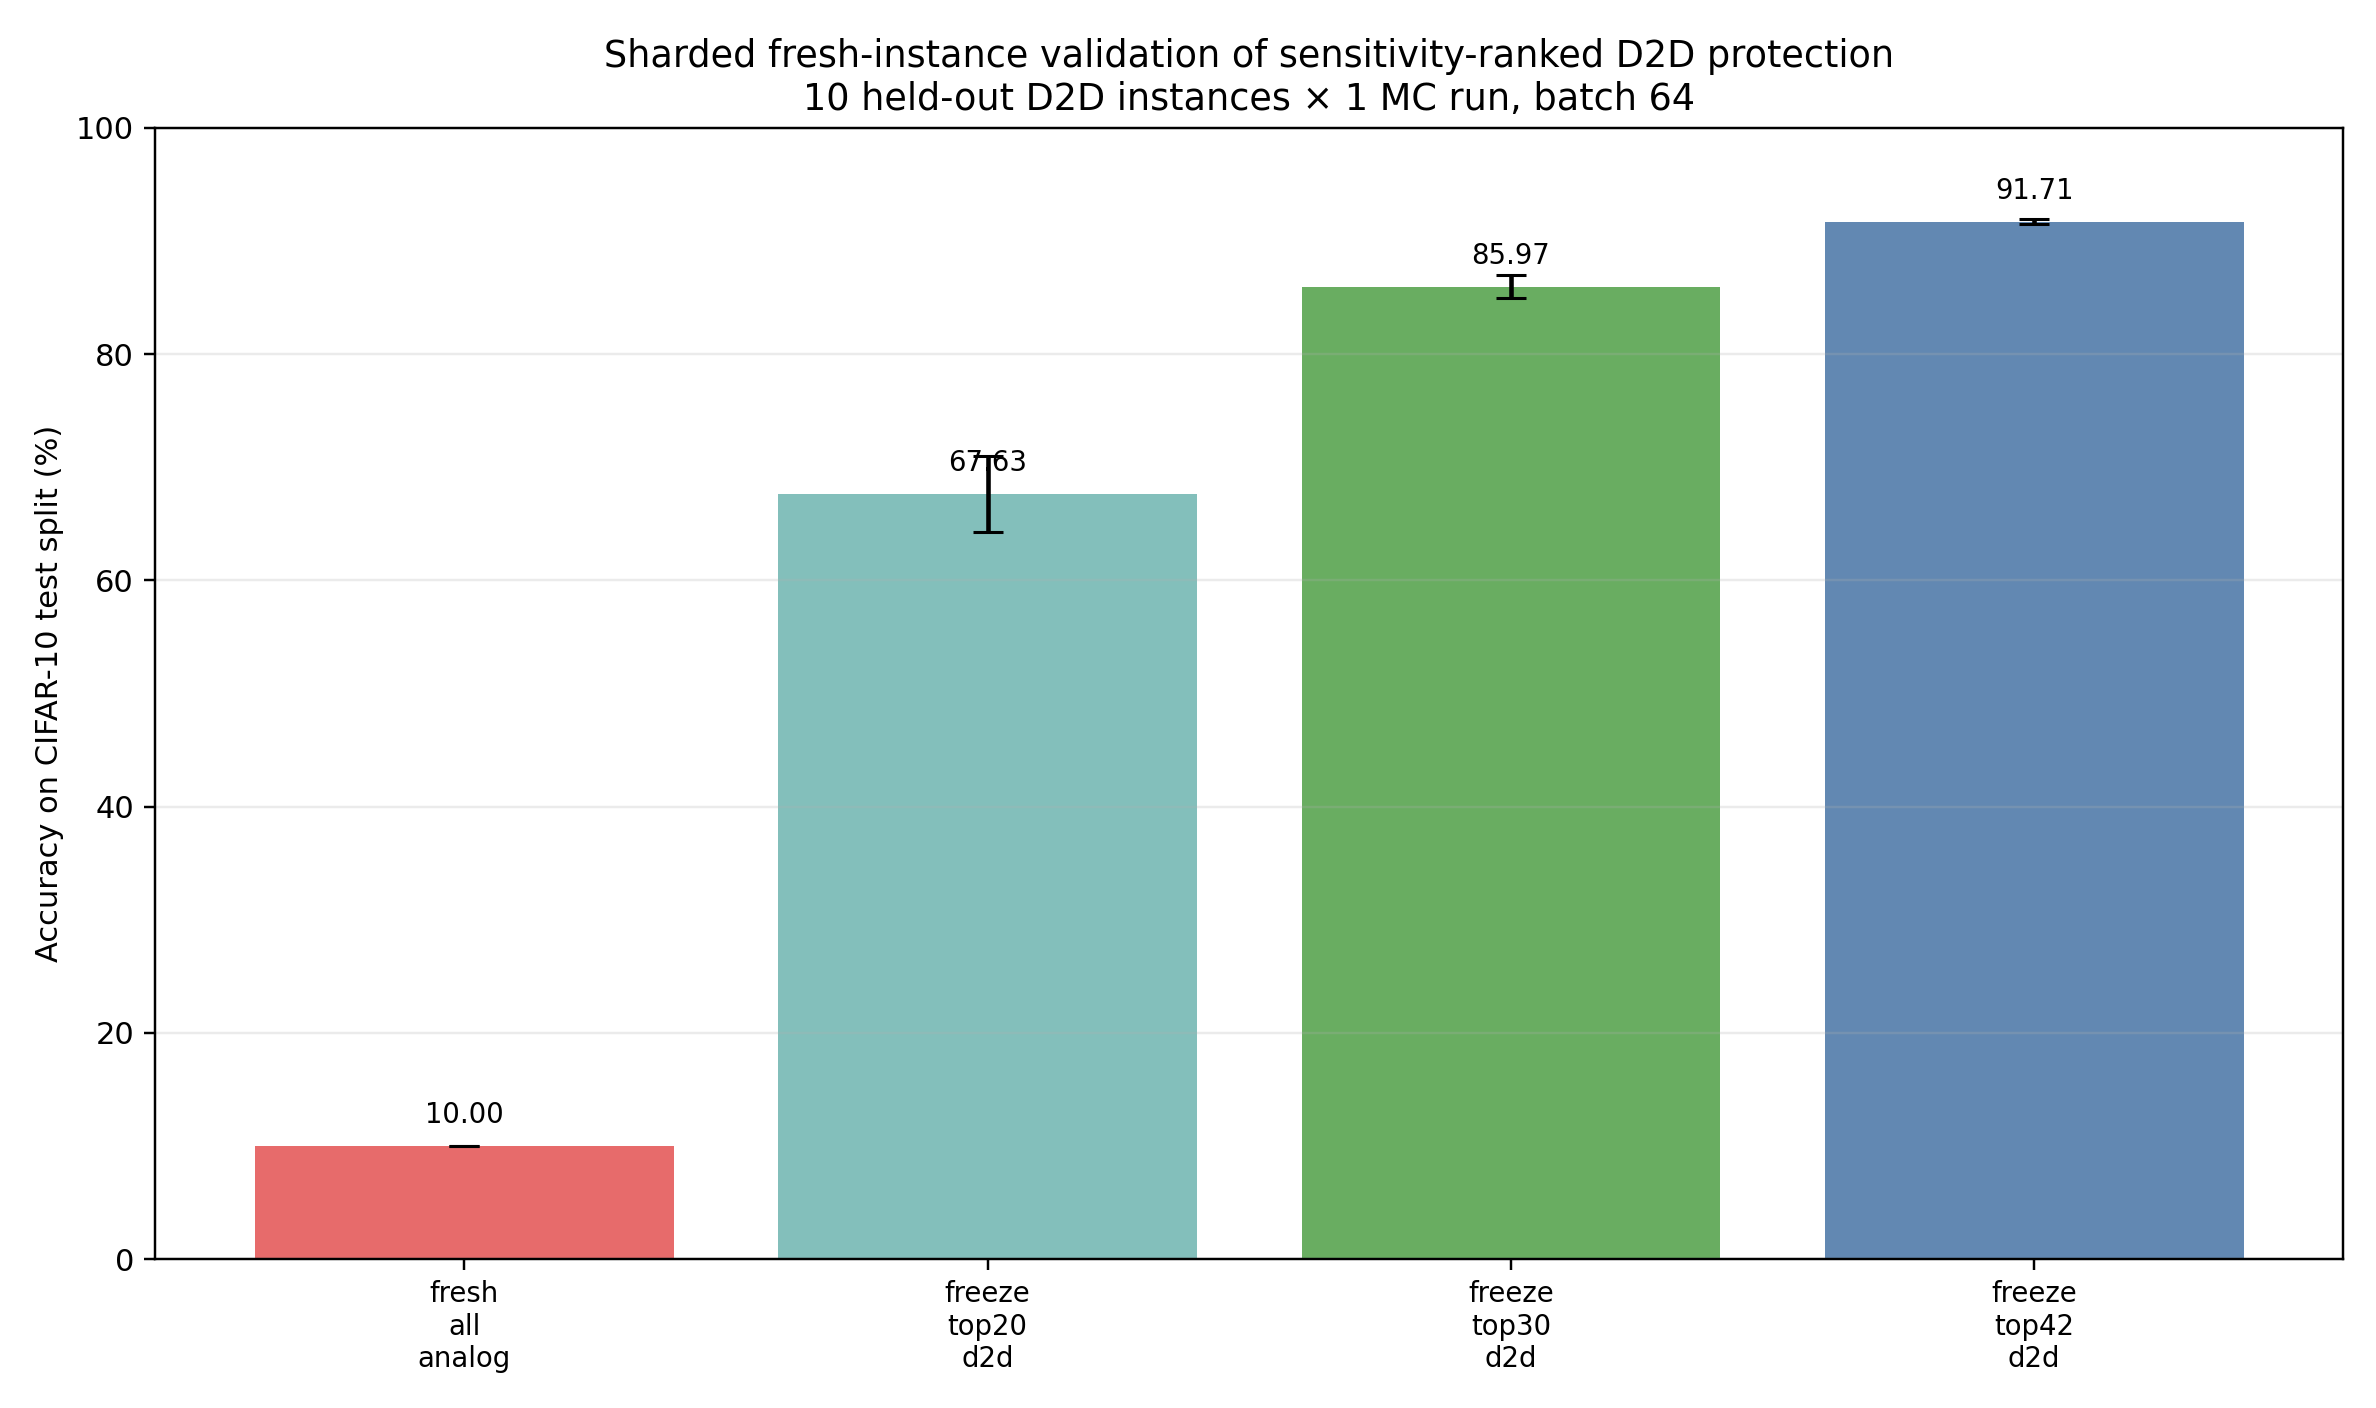
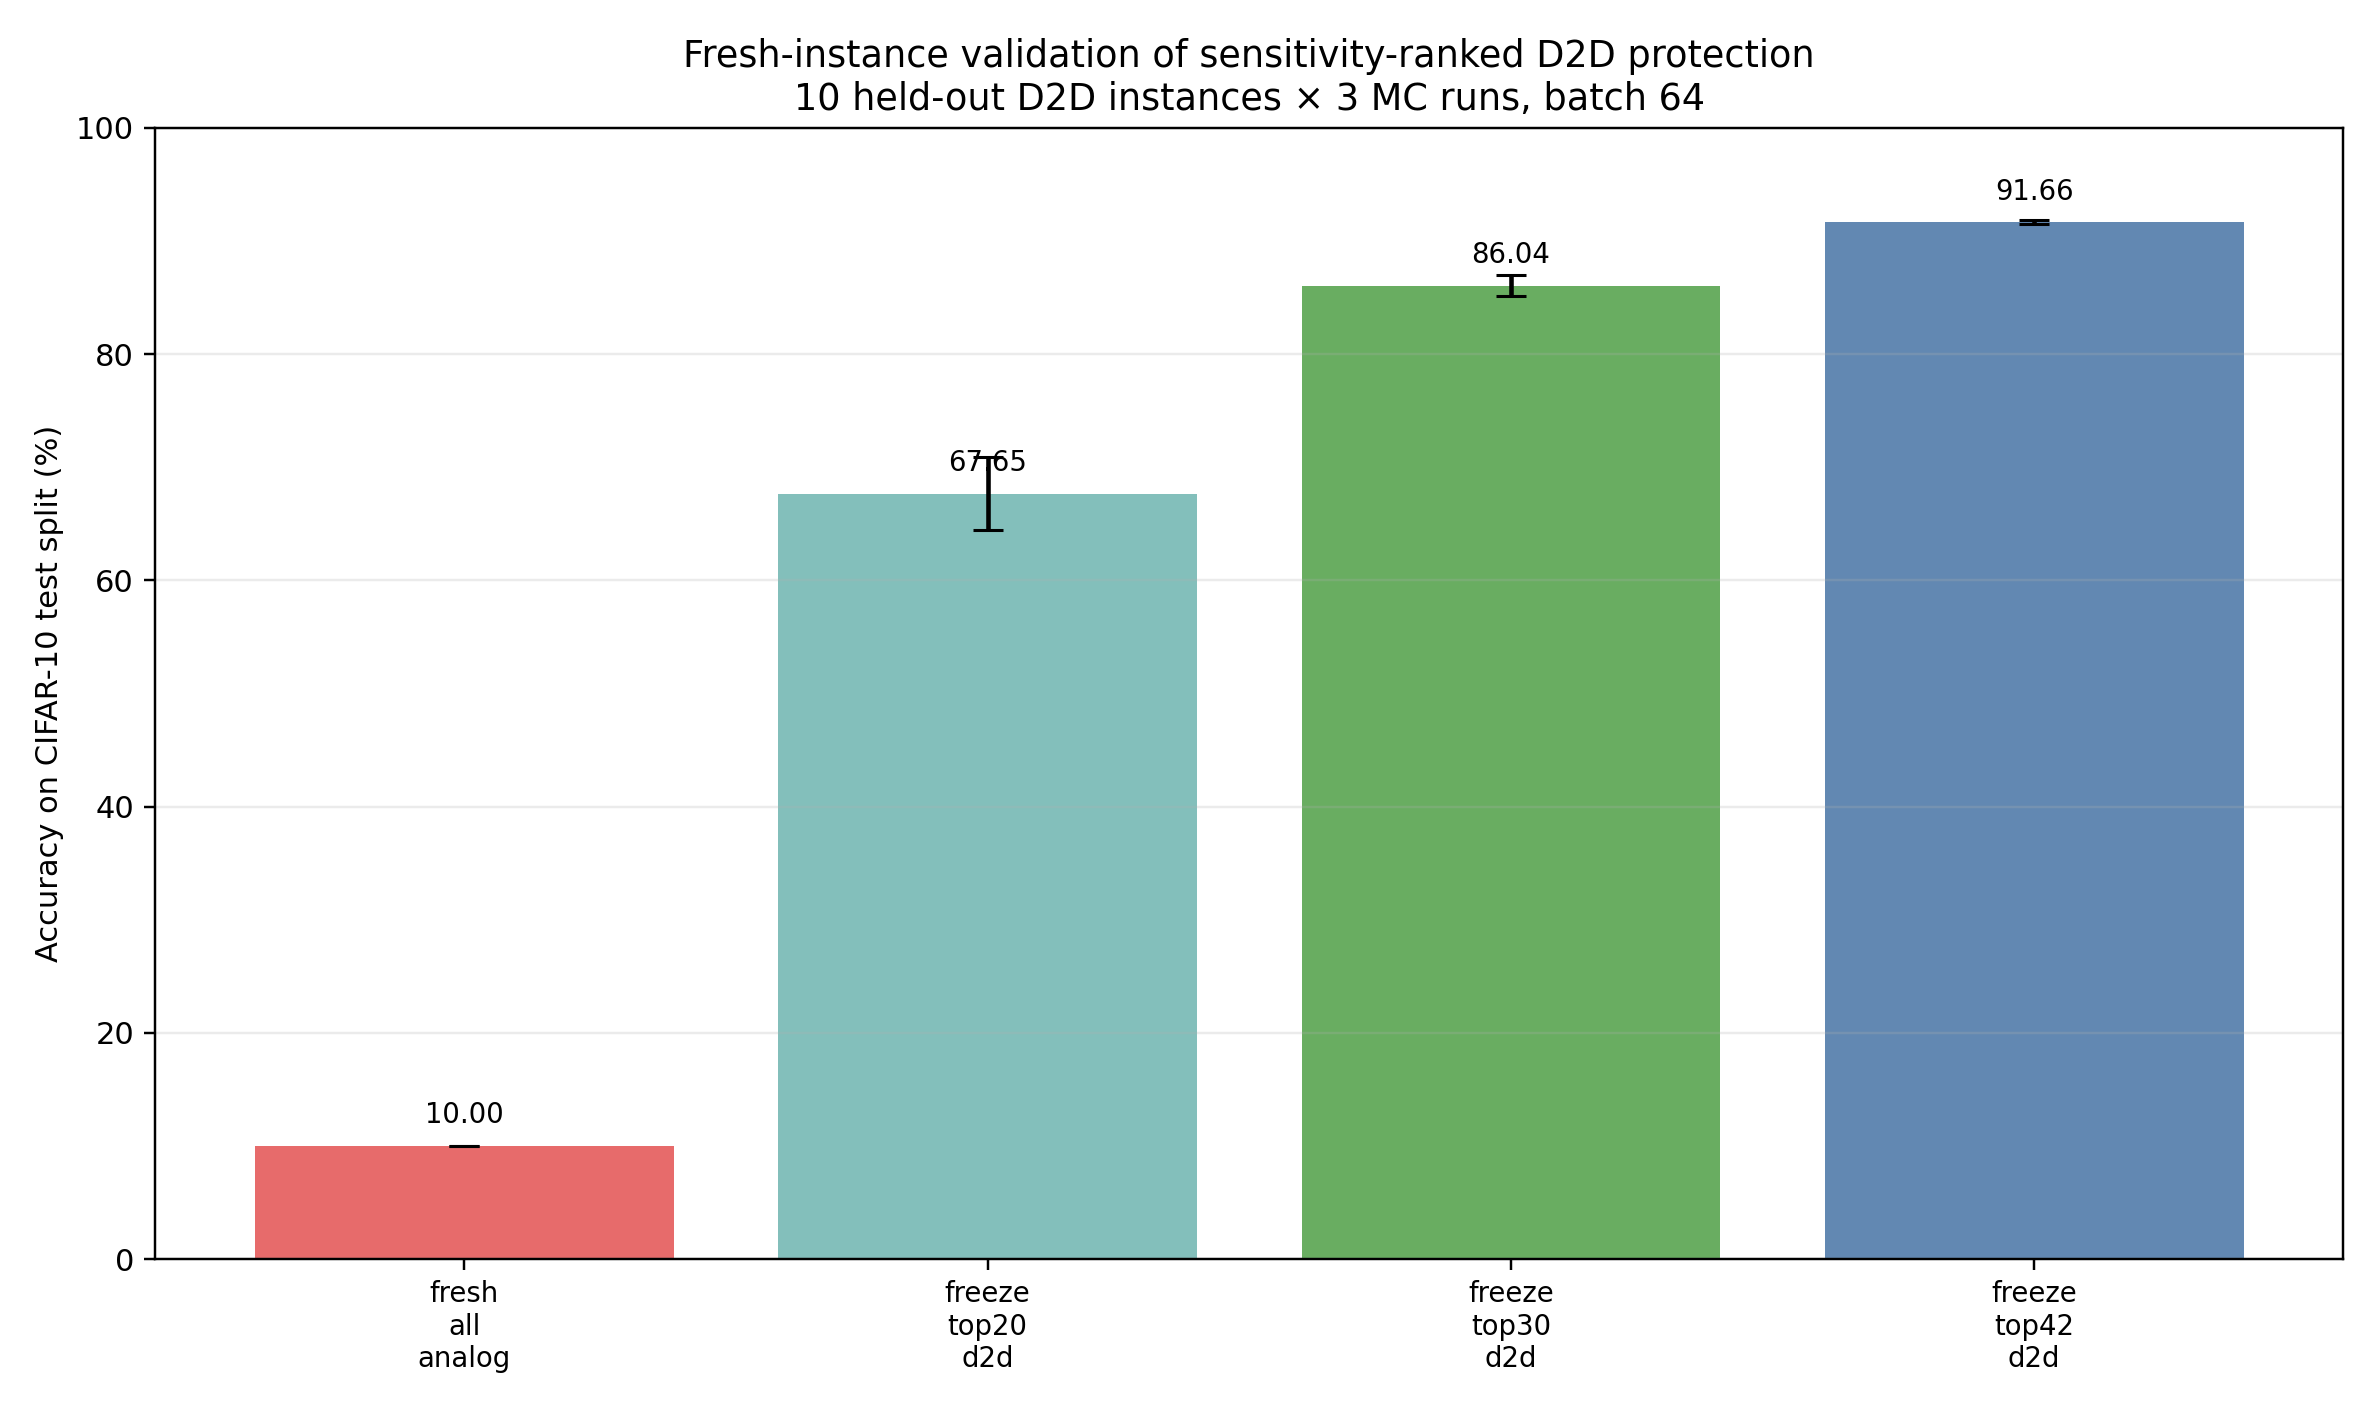
feat: integrate fresh-instance 10x3 evidence and polish thesis narrative
- Update chapter 7 (CN + XJTU) with 10x3 MC results: 67.65±3.21%, 86.04±0.95%, 91.66±0.19%
- Regenerate protection map figure and summary TSV with evidence_grade fresh-instance/full-test/sharded-n10-mc3
- Sync XJTU c4/c6/c7 with CN wording polish (remove provisional placeholders)
- Clean trailing whitespace in chapter_7_deployment.tex
- Update agent report for 10x3 protocol

Changed region(s): [[0.2492, 0.0312, 0.8098, 0.0938], [0.8409, 0.125, 0.8721, 0.1562], [0.6229, 0.1562, 0.654, 0.1875]]

diff --git a/thesis/cn/chapter_7_deployment.tex b/thesis/cn/chapter_7_deployment.tex
@@ -69,19 +69,19 @@
 但最终结论仍需由多个未见硬件实例上的 fresh-instance 协议确认。
 进一步的分片式 fresh-instance 复核采用同一 full42 排序，逐实例比较
 \texttt{fresh\_all\_analog}、\texttt{freeze\_top20\_d2d}、\texttt{freeze\_top30\_d2d} 与
-\texttt{freeze\_top42\_d2d}（完整测试集，$10$ 个未见 D2D 实例，每实例 $1$ 次 C2C 蒙特卡洛前向传播）。
-如图~\ref{fig:fresh-instance-protection-sharded} 所示，全新失配配置仍稳定在 $10.00\pm0.00\%$，
-保护前 $20$ 层恢复到 $67.63\pm3.32\%$，保护前 $30$ 层达到 $85.97\pm1.02\%$，
-而全 $42$ 层保留检查点 D2D 为 $91.71\pm0.22\%$。
+\texttt{freeze\_top42\_d2d}（完整测试集，$10$ 个未见 D2D 实例，每实例 $3$ 次 C2C 蒙特卡洛前向传播）。
+如图~\ref{fig:fresh-instance-protection-sharded} 所示，全新失配配置仍稳定在 $10.00\pm0.01\%$，
+保护前 $20$ 层恢复到 $67.65\pm3.21\%$，保护前 $30$ 层达到 $86.04\pm0.95\%$，
+而全 $42$ 层保留检查点 D2D 为 $91.66\pm0.19\%$。
 该结果说明完整测试集保护曲线并非少数 D2D 实例的偶然现象：top-$30$ 保护在 $10$ 个未见实例上保持稳定救援，
-但它仍是分片式 $10\times1$ 复核，尚未达到标准多次蒙特卡洛前向传播的最终部署协议。
+但它仍是推理期保护诊断，不等同于已经实现的混合精度硬件方案。
 从现有证据看，若外围或工艺预算允许优先保护约 $30/42$ 个高敏感层，
 则有望接近源域性能；若只保护前 $10$--$13$ 个极端高敏感层，则仍不足以解除固定掩膜模型的部署崩溃。
 
 \begin{figure}[t]
     \centering
     \includegraphics[width=0.95\textwidth]{../figures/mixed_precision/fig_fresh_instance_protection_maps_sharded_20260510}
-    \caption{基于 full42 排序的分片式 fresh-instance 保护复核。每个策略在完整 CIFAR-10 测试集上评估 $10$ 个未见 D2D 实例、每实例 $1$ 次 C2C 蒙特卡洛前向传播。top-$30$ 保护在多实例上达到 $85.97\pm1.02\%$，显著高于全新失配配置的 $10.00\pm0.00\%$，但该图仍不是最终多次蒙特卡洛前向传播的部署协议。}
+    \caption{基于 full42 排序的分片式 fresh-instance 保护复核。每个策略在完整 CIFAR-10 测试集上评估 $10$ 个未见 D2D 实例、每实例 $3$ 次 C2C 蒙特卡洛前向传播。top-$30$ 保护在多实例上达到 $86.04\pm0.95\%$，显著高于全新失配配置的 $10.00\pm0.01\%$，但该图仍表示推理期保护诊断，而非已实现的混合精度硬件方案。}
     \label{fig:fresh-instance-protection-sharded}
 \end{figure}
 
@@ -430,22 +430,22 @@ canonical $10\%$ D2D 给出 $86.16\pm0.19\%$，均处于原型级可行区间。
     \item \textbf{ADC $\ge$ 6 bit（绝对非协商）}。
     低于 5 bit 时所有训练协议均失效。
     从 5 bit 提升至 6 bit 是投资回报率最高的单点干预。
-    
+
     \item \textbf{写入线性度 $NL < 1.5$（可协商，影响均值）}。
     $NL=2.0$ 时 fresh-instance 精度约 $80$--$82\%$（修订配方），
     低于 $NL=1.0$ 基线约 $5.7$~pp，但仍处于可用区间。
     若工艺无法将 $NL$ 压至 $1.5$ 以下，可通过设备线性化或高阶梯度修正进一步缩小差距。
-    
+
     \item \textbf{训练协议 = Ensemble HAT（强非协商）}。
     标准 HAT 在所有测试条件下均 deterministic 崩塌至 $10\%$，
     无例外。固定掩膜训练不可用于任何要求跨实例鲁棒性的场景。
-    
+
     \item \textbf{D2D 均匀性（可协商，影响均值与方差）}。
     在 ADC $\ge$ 6 bit 且 $NL=1.0$ 时，
     D2D 从 $3\%$ 恶化至 $20\%$ 仅使 Ensemble HAT 均值从 $88.5\%$ 降至 $74.5\%$，
     不会导致崩塌。空间相关性 $\rho$ 增大主要加宽方差（$0.19$~pp $\to$ $3.95$~pp），
     可经由良率规划吸收。
-    
+
     \item \textbf{C2C 重复性（弱可协商）}。
     在操作区内，C2C 被数字恢复路径大量屏蔽；
     $5\%$ C2C 的有效误差常低于半 LSB。
@@ -459,18 +459,18 @@ canonical $10\%$ D2D 给出 $86.16\pm0.19\%$，均处于原型级可行区间。
     在中试线上测量 D2D 空间协方差核；
     若 $\rho > 0.4$，需引入空间校准网格或 correlated-HAT 训练，
     否则最坏实例可能跌破 $75\%$。
-    
+
     \item \textbf{NRE 节省}：
     Ensemble HAT 免除逐器件重新训练。
     按单卡单轮 $100$ epoch、每 epoch $\sim$$2$~小时估算，
     $100$ 片测试阵列可节省约 $20{,}000$ GPU--时，
     对应 $2025$ 年云算力成本约 $5$--$10$~k 美元。
-    
+
     \item \textbf{刷新频率协商}：
     在定案阵列规模前，与应用团队确认精度阈值与刷新间隔的联合规格。
     外围参考单元读出能耗随模拟层数线性增长，
     需在 $11.45\times$ 能效增益估算中扣除 $5$--$15\%$ 的外围开销。
-    
+
     \item \textbf{化合物应力冒烟测试}：
     单一组合应力测试（$2\%$ C2C + $3\%$ D2D + 6-bit ADC + $1\%$ IR 压降 + $1\%$  sneak path + $1{,}000$~s 保留）
     给出 $89.61\%$ 的单次运行精度。

diff --git a/thesis/xjtu_submission/Main_Spine/c7.tex b/thesis/xjtu_submission/Main_Spine/c7.tex
@@ -69,19 +69,19 @@
 但最终结论仍需由多个未见硬件实例上的 fresh-instance 协议确认。
 进一步的分片式 fresh-instance 复核采用同一 full42 排序，逐实例比较
 \texttt{fresh\_all\_analog}、\texttt{freeze\_top20\_d2d}、\texttt{freeze\_top30\_d2d} 与
-\texttt{freeze\_top42\_d2d}（完整测试集，$10$ 个未见 D2D 实例，每实例 $1$ 次 C2C 蒙特卡洛前向传播）。
-如图~\ref{fig:fresh-instance-protection-sharded} 所示，全新失配配置仍稳定在 $10.00\pm0.00\%$，
-保护前 $20$ 层恢复到 $67.63\pm3.32\%$，保护前 $30$ 层达到 $85.97\pm1.02\%$，
-而全 $42$ 层保留检查点 D2D 为 $91.71\pm0.22\%$。
+\texttt{freeze\_top42\_d2d}（完整测试集，$10$ 个未见 D2D 实例，每实例 $3$ 次 C2C 蒙特卡洛前向传播）。
+如图~\ref{fig:fresh-instance-protection-sharded} 所示，全新失配配置仍稳定在 $10.00\pm0.01\%$，
+保护前 $20$ 层恢复到 $67.65\pm3.21\%$，保护前 $30$ 层达到 $86.04\pm0.95\%$，
+而全 $42$ 层保留检查点 D2D 为 $91.66\pm0.19\%$。
 该结果说明完整测试集保护曲线并非少数 D2D 实例的偶然现象：top-$30$ 保护在 $10$ 个未见实例上保持稳定救援，
-但它仍是分片式 $10\times1$ 复核，尚未达到标准多次蒙特卡洛前向传播的最终部署协议。
+但它仍是推理期保护诊断，不等同于已经实现的混合精度硬件方案。
 从现有证据看，若外围或工艺预算允许优先保护约 $30/42$ 个高敏感层，
 则有望接近源域性能；若只保护前 $10$--$13$ 个极端高敏感层，则仍不足以解除固定掩膜模型的部署崩溃。
 
 \begin{figure}[t]
     \centering
     \includegraphics[width=0.95\textwidth]{fig_fresh_instance_protection_maps_sharded_20260510}
-    \caption{基于 full42 排序的分片式 fresh-instance 保护复核。每个策略在完整 CIFAR-10 测试集上评估 $10$ 个未见 D2D 实例、每实例 $1$ 次 C2C 蒙特卡洛前向传播。top-$30$ 保护在多实例上达到 $85.97\pm1.02\%$，显著高于全新失配配置的 $10.00\pm0.00\%$，但该图仍不是最终多次蒙特卡洛前向传播的部署协议。}
+    \caption{基于 full42 排序的分片式 fresh-instance 保护复核。每个策略在完整 CIFAR-10 测试集上评估 $10$ 个未见 D2D 实例、每实例 $3$ 次 C2C 蒙特卡洛前向传播。top-$30$ 保护在多实例上达到 $86.04\pm0.95\%$，显著高于全新失配配置的 $10.00\pm0.01\%$，但该图仍表示推理期保护诊断，而非已实现的混合精度硬件方案。}
     \label{fig:fresh-instance-protection-sharded}
 \end{figure}
 

diff --git a/thesis/cn/chapter_6_work2_scope.tex b/thesis/cn/chapter_6_work2_scope.tex
@@ -1,7 +1,7 @@
 % Chapter 6: Work 2 Scope — LLM KV-Cache on Organic Optoelectronic CIM
 % Full draft v3. Expanded from 88-line stub to ~15-page chapter draft.
 % Direction: C (KV-Cache) per CLAUDE_WORK2_DIRECTION_LOCK_20260423.md
-% Number-agnostic; placeholders marked [TBD].
+% 第六章 Work 2 范围与KV缓存评估
 
 \chapter{大语言模型KV缓存的有机光电存内计算映射}
 \label{ch:work2_scope}
@@ -480,7 +480,7 @@ last1（layer~23） & 真实噪声 & 16.72 & 1.066x \\
 \end{tabular}
 \end{table}
 
-全层配置的噪声扫描进一步说明了这一差异的物理来源。对6-bit全层配置分别扫描C2C和D2D噪声后可以看到，D2D噪声的破坏力远大于C2C噪声：D2D从0增至0.05时，PPL从32.41跃升至412.35；D2D=0.1时更是达到7635.49。这提示D2D可能是模拟KV缓存的首要失效源，与Work~1中D2D导致ViT分类精度崩溃的发现一致；正式结论仍需在元数据补全后锁定。
+全层配置的噪声扫描进一步说明了这一差异的物理来源。对6-bit全层配置分别扫描C2C和D2D噪声后可以看到，D2D噪声的破坏力远大于C2C噪声：D2D从0增至0.05时，PPL从32.41跃升至412.35；D2D=0.1时更是达到7635.49。这提示D2D可能是模拟KV缓存的首要失效源，与Work~1中D2D导致ViT分类精度崩溃的发现一致；在完整元数据核对和最小复现实验完成前，本节将该判断定位为阶段性证据。
 
 \begin{table}[htbp]
 \centering
@@ -529,7 +529,7 @@ last2 [22,23] & 0.05 & 5 & 19.21 & 0.04 & 19.17 & 19.26 \\
     \item \textbf{last1是当前优先候选路线}：从eval D2D=0.02到0.05，PPL仅从18.42微增至18.60，变化量不足1\%，提示其对D2D变异具有较低敏感性。
     \item \textbf{last2同样呈现低敏感性但一致性劣于last1}：PPL从18.71增至19.21，增量约2.7\%，仍在可接受范围，但为次优候选。
     \item \textbf{全层路线在fresh-D2D下表现为不可取候选}：即使eval D2D=0.02，PPL已达26.05$\pm$0.53；eval D2D=0.05时，PPL达66.84$\pm$5.91，变异系数接近9\%，不具备部署可行性。
-    \item \textbf{Fresh-D2D方差极小}：last1和last2的标准差均低于0.05，变异系数$<0.3\%$，提示其可能具备跨设备鲁棒性；该判断仍需在元数据锁定和最小重跑后再作为正式 claim。
+    \item \textbf{Fresh-D2D方差极小}：last1和last2的标准差均低于0.05，变异系数$<0.3\%$，提示其可能具备跨设备鲁棒性；该判断仍需在元数据核对和最小复现实验后再提升为正式结论。
 \end{enumerate}
 
 基于上述实验结果，当前Work-2的研究路线如下：
@@ -596,7 +596,7 @@ KV缓存的片上训练 & 训练过程需要高频原地更新K/V张量，超出
 
 本章系统界定了硕士论文第二个核心工作（Work 2）的研究范围：以有机光电模拟存内计算（CIM）作为大语言模型KV缓存的存储与计算层，面向1–3B边缘LLM推理场景，通过行为级仿真评估有机CIM在物理特性上与KV缓存访问模式的结构性匹配。
 
-本章的核心论点可概括为三个层次：\textbf{物理匹配}——有机OEC-RAM的$\sim$$10^3$ s保持时间和$10^3$–$10^4$次耐久性落入KV缓存WORM访问模式的"最优区间"；\textbf{机制优势}——光学刷新将Work 1中识别的"光敏噪声源"转化为低能耗、无耐久代价的数据维持机制；\textbf{系统评估}——Remote 107阶段性实验提示：全层模拟KV缓存即使在8-bit零噪声下亦超出10\%困惑度退化门限（17.48 vs 15.68），而选择性终端层（last1）在fresh-D2D交叉实例验证中表现稳定（eval D2D=0.02–0.05时PPL=18.42–18.60，变异系数$<0.3\%$），可作为有机CIM KV缓存的候选路线；该路线仍需通过manifest补全与最小重跑后锁定。
+本章的核心论点可概括为三个层次：\textbf{物理匹配}——有机OEC-RAM的$\sim$$10^3$ s保持时间和$10^3$–$10^4$次耐久性落入KV缓存WORM访问模式的"最优区间"；\textbf{机制优势}——光学刷新将Work 1中识别的"光敏噪声源"转化为低能耗、无耐久代价的数据维持机制；\textbf{系统评估}——Remote 107阶段性实验提示：全层模拟KV缓存即使在8-bit零噪声下亦超出10\%困惑度退化门限（17.48 vs 15.68），而选择性终端层（last1）在fresh-D2D交叉实例验证中表现稳定（eval D2D=0.02–0.05时PPL=18.42–18.60，变异系数$<0.3\%$），可作为有机CIM KV缓存的候选路线；该路线仍需通过元数据核对与最小复现实验后锁定。
 
 在方法论上，本工作沿用并扩展了Work 1建立的行为级模拟器框架，确保跨工作的一致性；在论证结构上，Work 2与Work 1形成互补——前者分析有机CIM在动态推理中的局限，后者论证其在静态存储中的优势，共同构建起"有机CIM适用性评估"的完整图景。
 

diff --git a/thesis/xjtu_submission/Main_Spine/c6.tex b/thesis/xjtu_submission/Main_Spine/c6.tex
@@ -1,7 +1,7 @@
 % Chapter 6: Work 2 Scope — LLM KV-Cache on Organic Optoelectronic CIM
 % Full draft v3. Expanded from 88-line stub to ~15-page chapter draft.
 % Direction: C (KV-Cache) per CLAUDE_WORK2_DIRECTION_LOCK_20260423.md
-% Number-agnostic; placeholders marked [TBD].
+% 第六章 Work 2 范围与KV缓存评估
 
 \chapter{大语言模型KV缓存的有机光电存内计算映射}
 \label{ch:work2_scope}
@@ -480,7 +480,7 @@ last1（layer~23） & 真实噪声 & 16.72 & 1.066x \\
 \end{tabular}
 \end{table}
 
-全层配置的噪声扫描进一步说明了这一差异的物理来源。对6-bit全层配置分别扫描C2C和D2D噪声后可以看到，D2D噪声的破坏力远大于C2C噪声：D2D从0增至0.05时，PPL从32.41跃升至412.35；D2D=0.1时更是达到7635.49。这提示D2D可能是模拟KV缓存的首要失效源，与Work~1中D2D导致ViT分类精度崩溃的发现一致；正式结论仍需在元数据补全后锁定。
+全层配置的噪声扫描进一步说明了这一差异的物理来源。对6-bit全层配置分别扫描C2C和D2D噪声后可以看到，D2D噪声的破坏力远大于C2C噪声：D2D从0增至0.05时，PPL从32.41跃升至412.35；D2D=0.1时更是达到7635.49。这提示D2D可能是模拟KV缓存的首要失效源，与Work~1中D2D导致ViT分类精度崩溃的发现一致；在完整元数据核对和最小复现实验完成前，本节将该判断定位为阶段性证据。
 
 \begin{table}[htbp]
 \centering
@@ -529,7 +529,7 @@ last2 [22,23] & 0.05 & 5 & 19.21 & 0.04 & 19.17 & 19.26 \\
     \item \textbf{last1是当前优先候选路线}：从eval D2D=0.02到0.05，PPL仅从18.42微增至18.60，变化量不足1\%，提示其对D2D变异具有较低敏感性。
     \item \textbf{last2同样呈现低敏感性但一致性劣于last1}：PPL从18.71增至19.21，增量约2.7\%，仍在可接受范围，但为次优候选。
     \item \textbf{全层路线在fresh-D2D下表现为不可取候选}：即使eval D2D=0.02，PPL已达26.05$\pm$0.53；eval D2D=0.05时，PPL达66.84$\pm$5.91，变异系数接近9\%，不具备部署可行性。
-    \item \textbf{Fresh-D2D方差极小}：last1和last2的标准差均低于0.05，变异系数$<0.3\%$，提示其可能具备跨设备鲁棒性；该判断仍需在元数据锁定和最小重跑后再作为正式 claim。
+    \item \textbf{Fresh-D2D方差极小}：last1和last2的标准差均低于0.05，变异系数$<0.3\%$，提示其可能具备跨设备鲁棒性；该判断仍需在元数据核对和最小复现实验后再提升为正式结论。
 \end{enumerate}
 
 基于上述实验结果，当前Work-2的研究路线如下：
@@ -596,7 +596,7 @@ KV缓存的片上训练 & 训练过程需要高频原地更新K/V张量，超出
 
 本章系统界定了硕士论文第二个核心工作（Work 2）的研究范围：以有机光电模拟存内计算（CIM）作为大语言模型KV缓存的存储与计算层，面向1–3B边缘LLM推理场景，通过行为级仿真评估有机CIM在物理特性上与KV缓存访问模式的结构性匹配。
 
-本章的核心论点可概括为三个层次：\textbf{物理匹配}——有机OEC-RAM的$\sim$$10^3$ s保持时间和$10^3$–$10^4$次耐久性落入KV缓存WORM访问模式的"最优区间"；\textbf{机制优势}——光学刷新将Work 1中识别的"光敏噪声源"转化为低能耗、无耐久代价的数据维持机制；\textbf{系统评估}——Remote 107阶段性实验提示：全层模拟KV缓存即使在8-bit零噪声下亦超出10\%困惑度退化门限（17.48 vs 15.68），而选择性终端层（last1）在fresh-D2D交叉实例验证中表现稳定（eval D2D=0.02–0.05时PPL=18.42–18.60，变异系数$<0.3\%$），可作为有机CIM KV缓存的候选路线；该路线仍需通过manifest补全与最小重跑后锁定。
+本章的核心论点可概括为三个层次：\textbf{物理匹配}——有机OEC-RAM的$\sim$$10^3$ s保持时间和$10^3$–$10^4$次耐久性落入KV缓存WORM访问模式的"最优区间"；\textbf{机制优势}——光学刷新将Work 1中识别的"光敏噪声源"转化为低能耗、无耐久代价的数据维持机制；\textbf{系统评估}——Remote 107阶段性实验提示：全层模拟KV缓存即使在8-bit零噪声下亦超出10\%困惑度退化门限（17.48 vs 15.68），而选择性终端层（last1）在fresh-D2D交叉实例验证中表现稳定（eval D2D=0.02–0.05时PPL=18.42–18.60，变异系数$<0.3\%$），可作为有机CIM KV缓存的候选路线；该路线仍需通过元数据核对与最小复现实验后锁定。
 
 在方法论上，本工作沿用并扩展了Work 1建立的行为级模拟器框架，确保跨工作的一致性；在论证结构上，Work 2与Work 1形成互补——前者分析有机CIM在动态推理中的局限，后者论证其在静态存储中的优势，共同构建起"有机CIM适用性评估"的完整图景。
 

diff --git a/thesis/cn/chapter_4_benchmarks.tex b/thesis/cn/chapter_4_benchmarks.tex
@@ -207,8 +207,8 @@ ImageNet-1k 的评估结果来自 \texttt{imagenet\_eval\_results\_gpt.json}，
 经核查，\texttt{imagenet\_eval\_results\_gpt.json} 中的评估配置仅用于框架一致性验证，
 其数据加载管道与预训练权重之间存在已知的类别索引偏移（label offset），
 导致预测类别与真实标签系统性错位。
-该 JSON 因此不代表模型真实的 ImageNet-1k 能力，而仅作为当前仿真体制下的\emph{占位评估}（placeholder evaluation）。
-完整的 ImageNet-1k 基准留待未来修复数据加载管道后重新运行。
+该 JSON 因此不代表模型真实的 ImageNet-1k 能力，而仅用于当前仿真体制的数据通路一致性检查。
+完整的 ImageNet-1k 基准需在修复数据加载管道后重新运行。
 
 \section{Fresh-Instance 评估}
 

diff --git a/thesis/xjtu_submission/Main_Spine/c4.tex b/thesis/xjtu_submission/Main_Spine/c4.tex
@@ -207,8 +207,8 @@ ImageNet-1k 的评估结果来自 \texttt{imagenet\_eval\_results\_gpt.json}，
 经核查，\texttt{imagenet\_eval\_results\_gpt.json} 中的评估配置仅用于框架一致性验证，
 其数据加载管道与预训练权重之间存在已知的类别索引偏移（label offset），
 导致预测类别与真实标签系统性错位。
-该 JSON 因此不代表模型真实的 ImageNet-1k 能力，而仅作为当前仿真体制下的\emph{占位评估}（placeholder evaluation）。
-完整的 ImageNet-1k 基准留待未来修复数据加载管道后重新运行。
+该 JSON 因此不代表模型真实的 ImageNet-1k 能力，而仅用于当前仿真体制的数据通路一致性检查。
+完整的 ImageNet-1k 基准需在修复数据加载管道后重新运行。
 
 \section{Fresh-Instance 评估}
 

diff --git a/coordination/agent_reports/Claude/LOCAL_GPU_FRESH_INSTANCE_PROTECTION_SHARDED_REPORT_20260510.md b/coordination/agent_reports/Claude/LOCAL_GPU_FRESH_INSTANCE_PROTECTION_SHARDED_REPORT_20260510.md
@@ -2,25 +2,24 @@
 
 ## Evidence grade
 
-- `fresh-instance/full-test/sharded-n10-mc1`: full CIFAR-10 test split, 10 held-out D2D instances, one C2C MC pass per instance.
-- This reaches the canonical instance count, but still uses one MC pass per instance rather than the multi-MC final protocol.
+- `fresh-instance/full-test/sharded-n10-mc3`: full CIFAR-10 test split, 10 held-out D2D instances, 3 C2C MC passes per instance.
 - Batch size was reduced to 64 and instances were run sequentially to avoid GPU freezes.
 
 ## Summary
 
-| Strategy | Mean acc. | Std | Min | Max | Gain vs fresh |
-|---|---:|---:|---:|---:|---:|
-| `fresh_all_analog` | 10.00% | 0.00 | 10.00% | 10.01% | +0.00 pp |
-| `freeze_top20_d2d` | 67.63% | 3.32 | 61.17% | 71.46% | +57.63 pp |
-| `freeze_top30_d2d` | 85.97% | 1.02 | 84.18% | 87.72% | +75.97 pp |
-| `freeze_top42_d2d` | 91.71% | 0.22 | 91.44% | 92.10% | +81.71 pp |
+| Strategy | Mean acc. | Std | Min | Max | Gain vs fresh | Runs |
+|---|---:|---:|---:|---:|---:|---:|
+| `fresh_all_analog` | 10.00% | 0.01 | 10.00% | 10.03% | +0.00 pp | 30 |
+| `freeze_top20_d2d` | 67.65% | 3.21 | 61.17% | 71.70% | +57.65 pp | 30 |
+| `freeze_top30_d2d` | 86.04% | 0.95 | 84.18% | 87.96% | +76.04 pp | 30 |
+| `freeze_top42_d2d` | 91.66% | 0.19 | 91.27% | 92.10% | +81.66 pp | 30 |
 
 ## Interpretation
 
-- `fresh_all_analog` remains at chance level across 10 held-out instances.
-- Protecting the top 20 layers gives a partial but more variable rescue.
+- `fresh_all_analog` remains at chance level across the full 10×3 protocol.
+- Protecting the top 20 layers gives partial rescue but remains instance-sensitive.
 - Protecting the top 30 layers is stable around 86%, close to the top42/source-domain ceiling around 91.7%.
-- This supports sensitivity-ranked protection as a deployment-design candidate; final claim-bearing validation still needs multi-MC replication per instance.
+- The 10×3 result is suitable as the current thesis-level fresh-instance evidence for sensitivity-ranked protection, while still representing an inference-time protection diagnosis rather than a fabricated hardware implementation.
 
 ## Artifacts
 